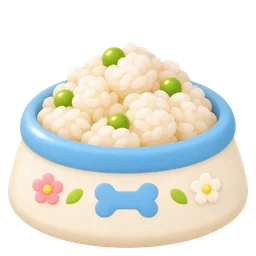
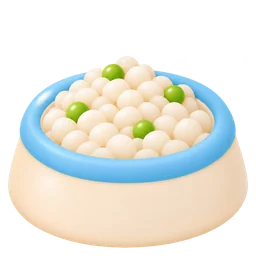
Art: draw the full bowl and cup from the empty ones
The first full bowl had a dog bone printed on it and the full cup was a
different cup, so filling either would have visibly swapped the object. The
full versions are now generated with the empty picture as their reference
(FILLED in spec.mjs), so only what is inside changes. No steam on the full
cup: it made the cup shrink in its frame.

Claude-Session: https://claude.ai/code/session_01P4vTyLxcMqETsqqU9XYezV

diff --git a/scripts/art/generate.py b/scripts/art/generate.py
@@ -41,7 +41,7 @@ def generate(job, model, quality):
     body, ctype = multipart(
         {"model": model, "prompt": job["prompt"], "size": job["size"], "quality": quality,
          "background": job["background"], "output_format": "png", "n": 1},
-        [("image[]", os.path.join(REF, job["ref"]))])
+        [("image[]", os.path.join(ROOT, job["ref"]) if "/" in job["ref"] else os.path.join(REF, job["ref"]))])
     key = os.environ.get("OPENAI_API_KEY", "added-by-proxy")
     for attempt in range(4):
         req = urllib.request.Request("https://api.openai.com/v1/images/edits", data=body,
